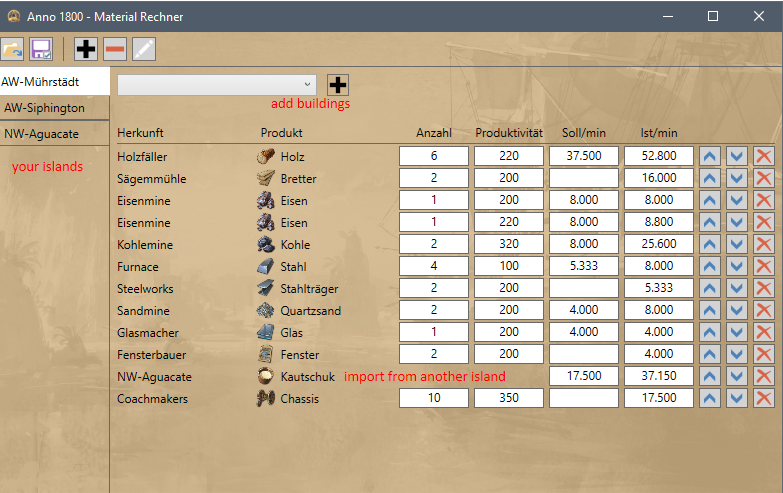
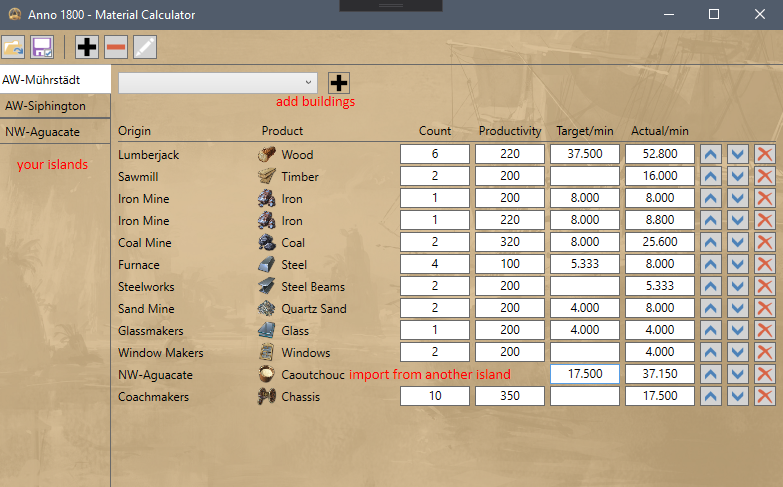
cleanup

Changed region(s): [[0.0, 0.0, 1.0, 0.8624], [0.1226, 0.4928, 0.2759, 0.8316], [0.4291, 0.0, 0.5824, 0.0308]]

diff --git a/MaterialCalculator/App.xaml.cs b/MaterialCalculator/App.xaml.cs
@@ -1,5 +1,4 @@
-using System.Globalization;
-using System.Windows;
+using System.Windows;
 
 namespace MaterialCalculator {
 
@@ -7,7 +6,6 @@ namespace MaterialCalculator {
 
     #region Constructor
     public App() {
-      CultureInfo.CurrentUICulture = new CultureInfo("DE");
     }
     #endregion
 
